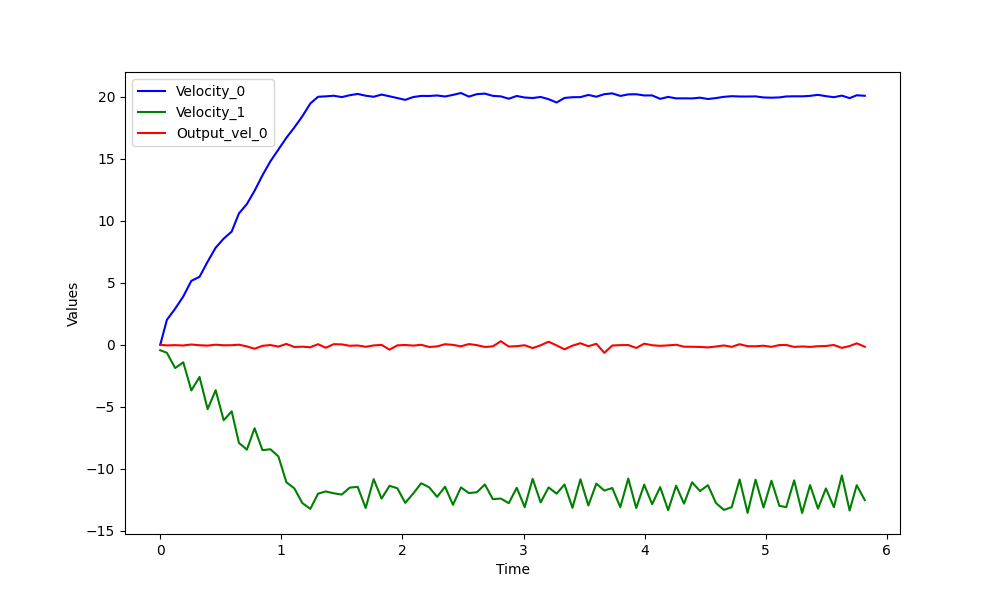
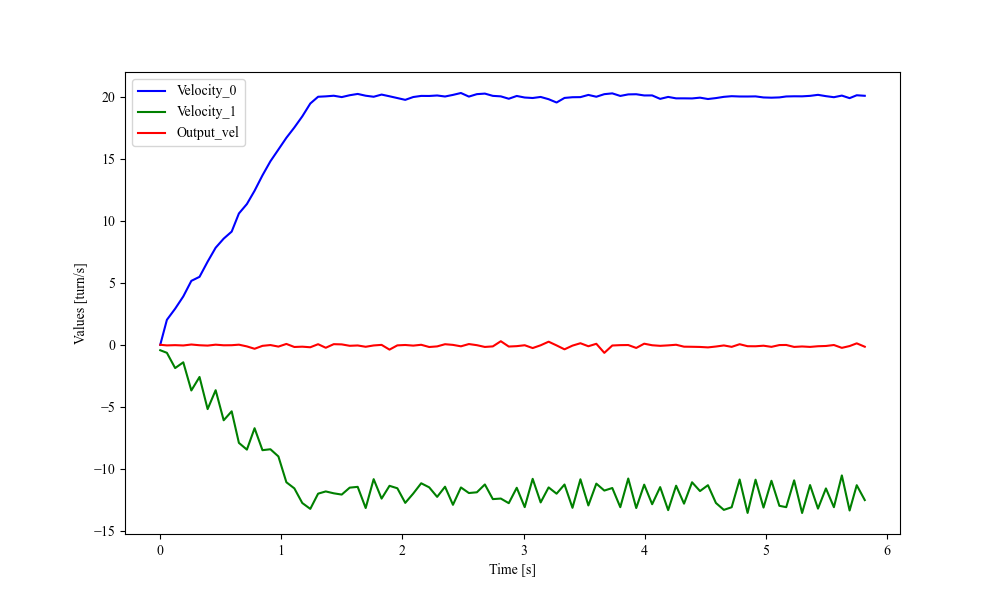
modify figures

diff --git a/ODRIVE_only/202508/plot_band.py b/ODRIVE_only/202508/plot_band.py
@@ -57,7 +57,7 @@ plt.show()
 plt.figure(figsize=(10, 6))
 plt.plot(time, velocity_0, label='Velocity_0', color='blue')
 plt.plot(time, velocity_1, label='Velocity_1', color='green')
-plt.plot(time, output_vel_0, label='Output_vel_0', color='red')
+plt.plot(time, output_vel_0, label='Output_vel', color='red')
 plt.xlabel('Time [s]')  # 単位を追加
 plt.ylabel('Values [turn/s]')  # 単位を追加
 plt.legend()

diff --git a/ODRIVE_only/202508/plot.py b/ODRIVE_only/202508/plot.py
@@ -7,7 +7,7 @@ from matplotlib import rcParams
 rcParams['font.family'] = 'Times New Roman'
 
 # CSVファイルを読み込む
-csv_file = "csv/two_pos_trac_20250801_1947.csv"  # CSVファイルのパスを指定してください
+csv_file = "csv/two_pos_trac_20250801_1705.csv"  # CSVファイルのパスを指定してください
 data = pd.read_csv(csv_file)
 
 # データを取得

diff --git a/ODRIVE_only/202508/reduction_control_e=v.py b/ODRIVE_only/202508/reduction_control_e=v.py
@@ -146,7 +146,7 @@ except KeyboardInterrupt:
     # Format the date and time as a string
     timestamp = now.strftime("%Y%m%d_%H%M")
     # Create the filename
-    filename = f'csv/two_pos_trac_{timestamp}.csv'
+    filename = f'csv/vr_{timestamp}.csv'
 
     with open(filename, 'w', newline='') as f:
         writer = csv.writer(f)
